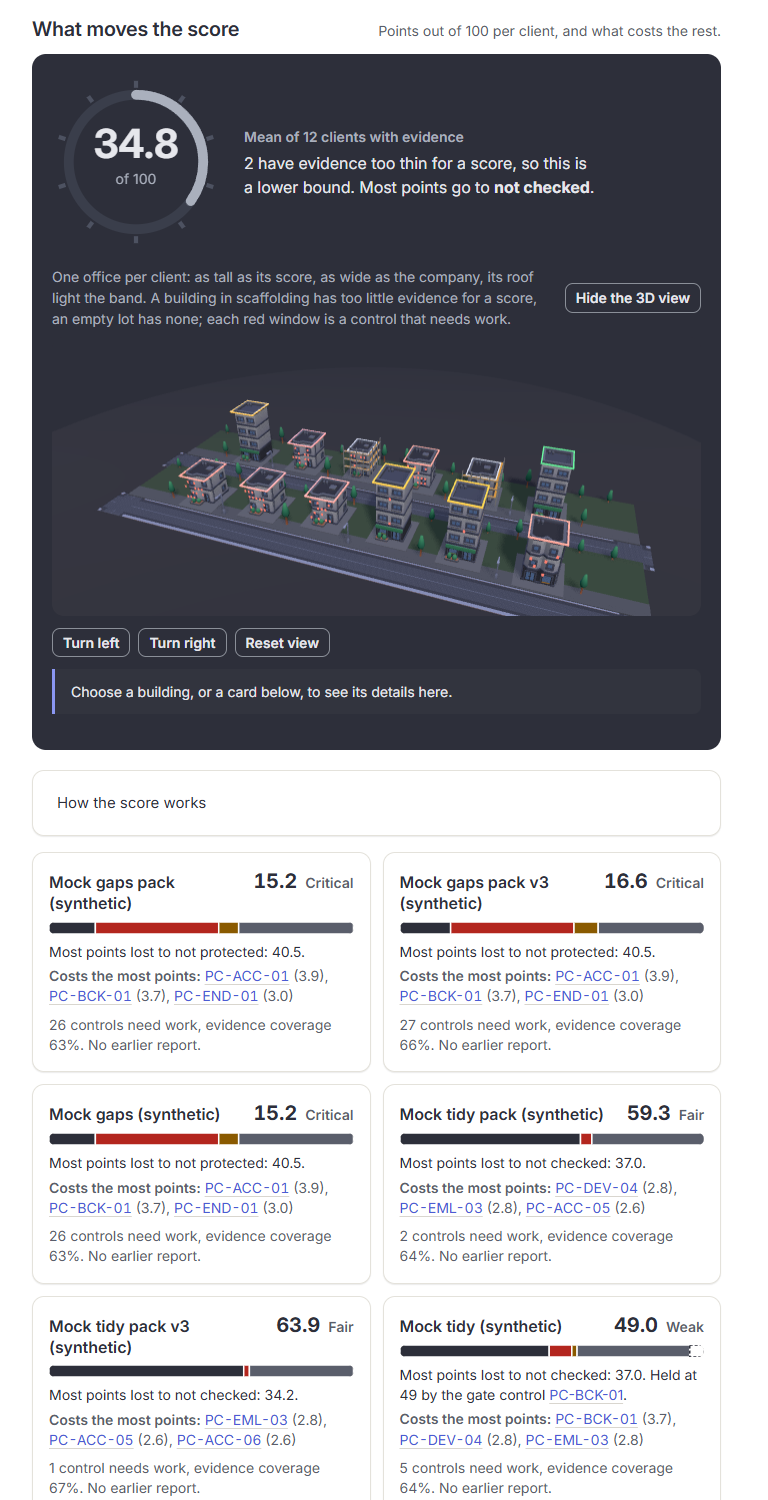
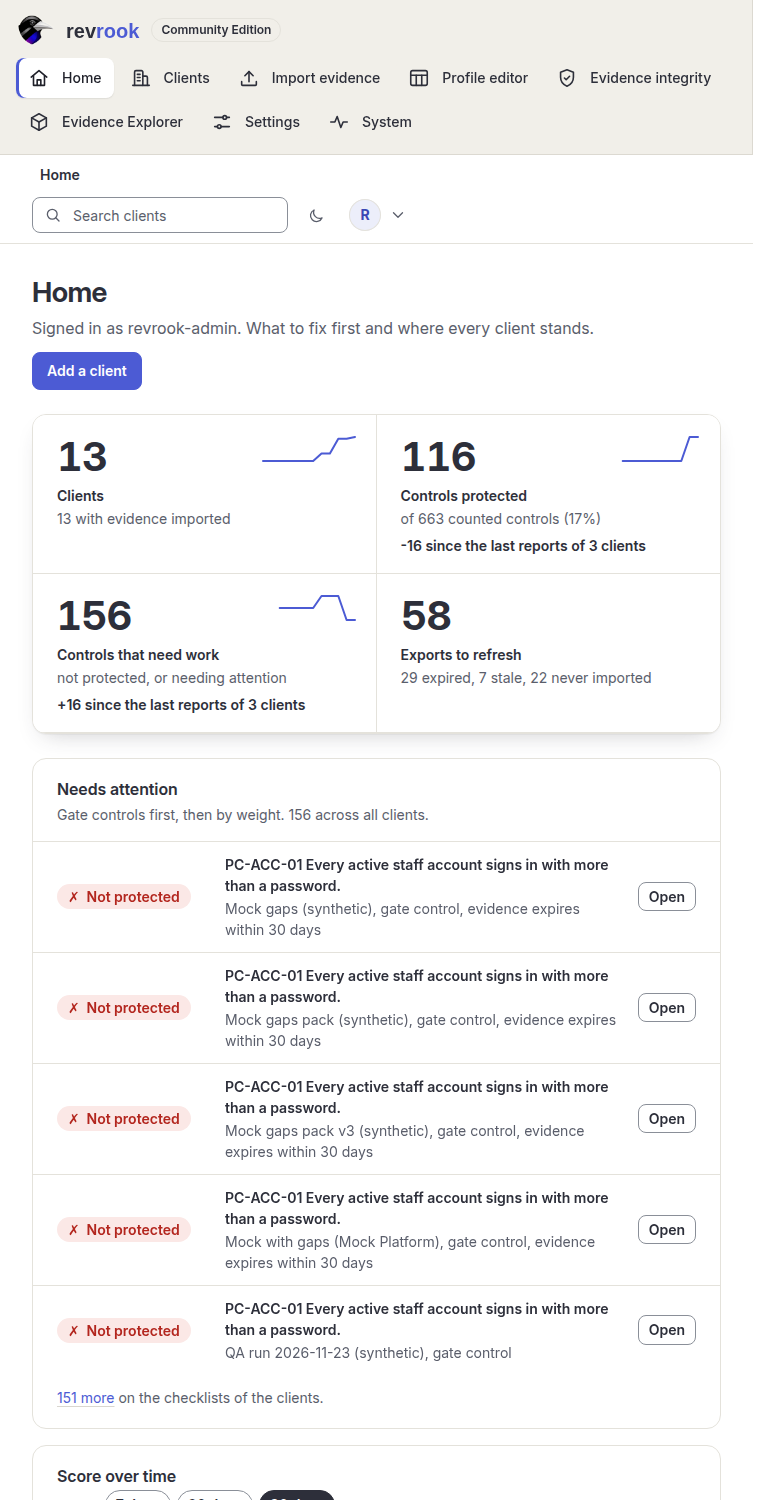
Readiness follow-up: no pre-release wording, System picture on 27.0.0, top of Home at 768 px
- quick-start.md, install.md and upgrade.md no longer call revrook pre-release.
- system-1440.png taken again on Development 6372a1a: the System page shows
  revrook 27.0.0 (the old picture showed 27.0.0.dev0).
- home-768.png shows the top of Home at 768 px, as guide 2 describes (taken by
  the crew's documentation check); the guide keeps its original caption.
- MANIFEST.json and the capture notes record both pictures.

diff --git a/docs/images/README.md b/docs/images/README.md
@@ -36,7 +36,7 @@ address.
 | Image | `ghcr.io/theriark/revrook-ce@sha256:22d402c93e9a387817d291d69ba539b8089de91a2c83531fac04ca2d8c33ef94` |
 | CI run | 43516815094 (the push of the commit to `development`) |
 | Evidence | the System page showed `revrook 27.0.0.dev0, build 0f705cace6f1, role all` (pictured in `system-1440.png`) |
-| Version shown | `27.0.0.dev0` on the System page, with the build commit beside it |
+| Version shown | `27.0.0.dev0` on the System page, with the build commit beside it; `system-1440.png` was taken again on 2026-11-27 on the first release build and shows `revrook 27.0.0, build 6372a1a70189`, and `home-768.png` was taken again the same day at the top of Home |
 | Browser | Playwright for Python driving the installed Chrome 157, headless, CSS-pixel scale |
 | Renderer | `ANGLE (NVIDIA, NVIDIA GeForce RTX 2080 SUPER (0x00001E81) Direct3D11 vs_5_0 ps_5_0, D3D11)`, a hardware GPU |
 | Account | `revrook-admin`, signed in with a session cookie made on the Development server; no password typed |

diff --git a/docs/quick-start.md b/docs/quick-start.md
@@ -4,8 +4,8 @@ From nothing to an exported quarterly security review in about ten minutes, on o
 machine, with invented demo data. Nothing here touches a real customer or a real
 Microsoft tenant.
 
-revrook is pre-release: there is no released version and no published image yet, so you
-build the image from the repository. What the output is, and is not, is in the
+revrook 27.0.0 is the first release. This quick start builds the image from the
+repository. What the output is, and is not, is in the
 [README](../README.md): a configuration evidence summary, not a certification.
 
 ## What you need

diff --git a/docs/install.md b/docs/install.md
@@ -3,9 +3,9 @@
 How to run revrook CE for real on a machine you administer. To try it first with demo
 data, use the [quick start](quick-start.md).
 
-revrook is pre-release. There is no released version and no published image; you build
-the image from the repository, and the code is on the `development` branch until a
-release exists. Everything below is what the repository does today.
+revrook 27.0.0 is the first release. You build the image from the repository, at the
+release tag `v27.0.0` or on the `development` branch. Everything below is what the
+repository does today.
 
 ## What runs
 

diff --git a/docs/guides/02-clients-and-home.md b/docs/guides/02-clients-and-home.md
@@ -48,9 +48,7 @@ Controls by domain and Recent changes. On a tablet the navigation wraps on two r
 the top and the cards stand two to a row; on a phone they stand one to a row and the navigation wraps too, its links
 without their icons, in two or three rows.
 
-The picture below shows the score drivers of Home at 768 px.
-
-![The score drivers of Home at 768 px (tablet view), light theme](../images/home-768.png)
+![Home at 768 px (tablet view), light theme](../images/home-768.png)
 
 ![Home on a phone at 390 px, light theme](../images/home-390.png)
 

diff --git a/docs/upgrade.md b/docs/upgrade.md
@@ -1,8 +1,8 @@
 # Upgrade
 
 How to move an installation to a newer version without losing data, and how to go back.
-revrook is pre-release and has no released version yet, so the steps below use the
-`development` branch; with a release they use its tag.
+revrook 27.0.0 is the first release. The steps below use a release tag; on the
+`development` branch they work the same way.
 
 ## What an upgrade does
 
